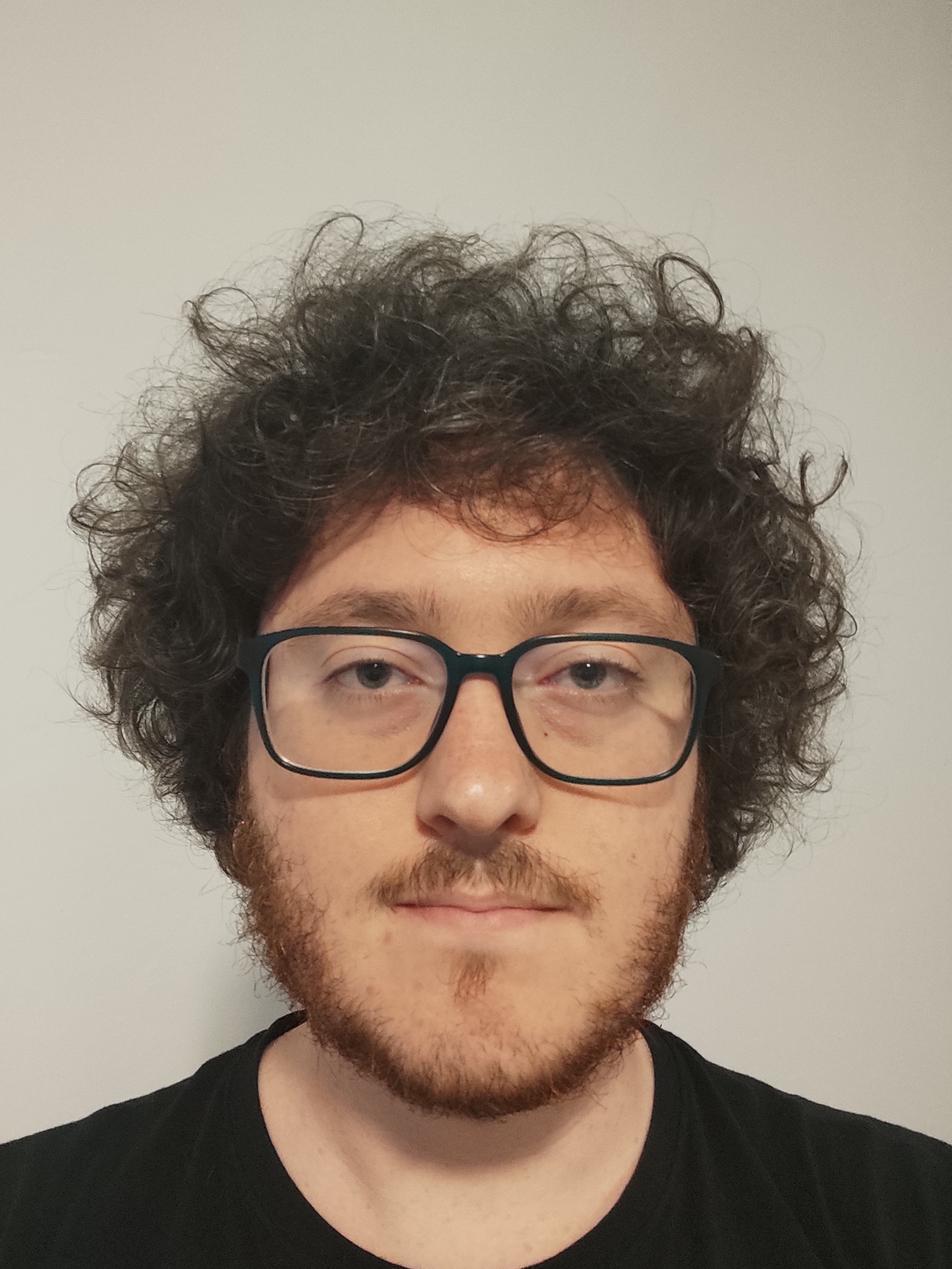
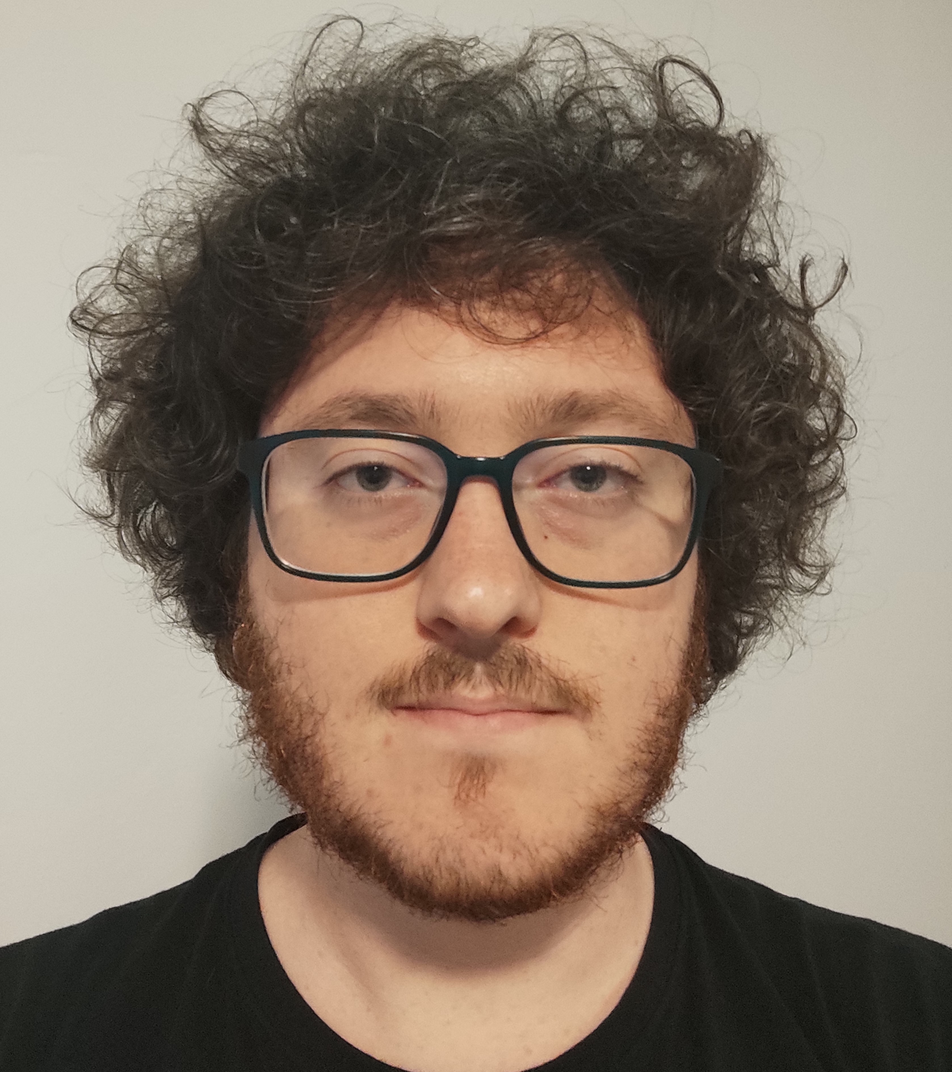
aaa

diff --git a/index.html b/index.html
@@ -15,7 +15,7 @@
 		</nav>
 		<div class="container">
     		<div class="blurb">
-                                <p><img src="jt_sorridente.jpg " width="300" height="300" style="float:right" hspace="20" /></p>
+                                <p><img src="jt_sorridente.jpg " width="267" height="300" style="float:right" hspace="20" /></p>
 			
 <h2>Jacopo Turini</h2> 
 	<p align="justify">I am a researcher in cognitive science and psychology, currently waiting to defend my PhD at the <a href="https://www.goethe-university-frankfurt.de/51789866/Institute_of_Psychology">Goethe University of Frankfurt</a>.
